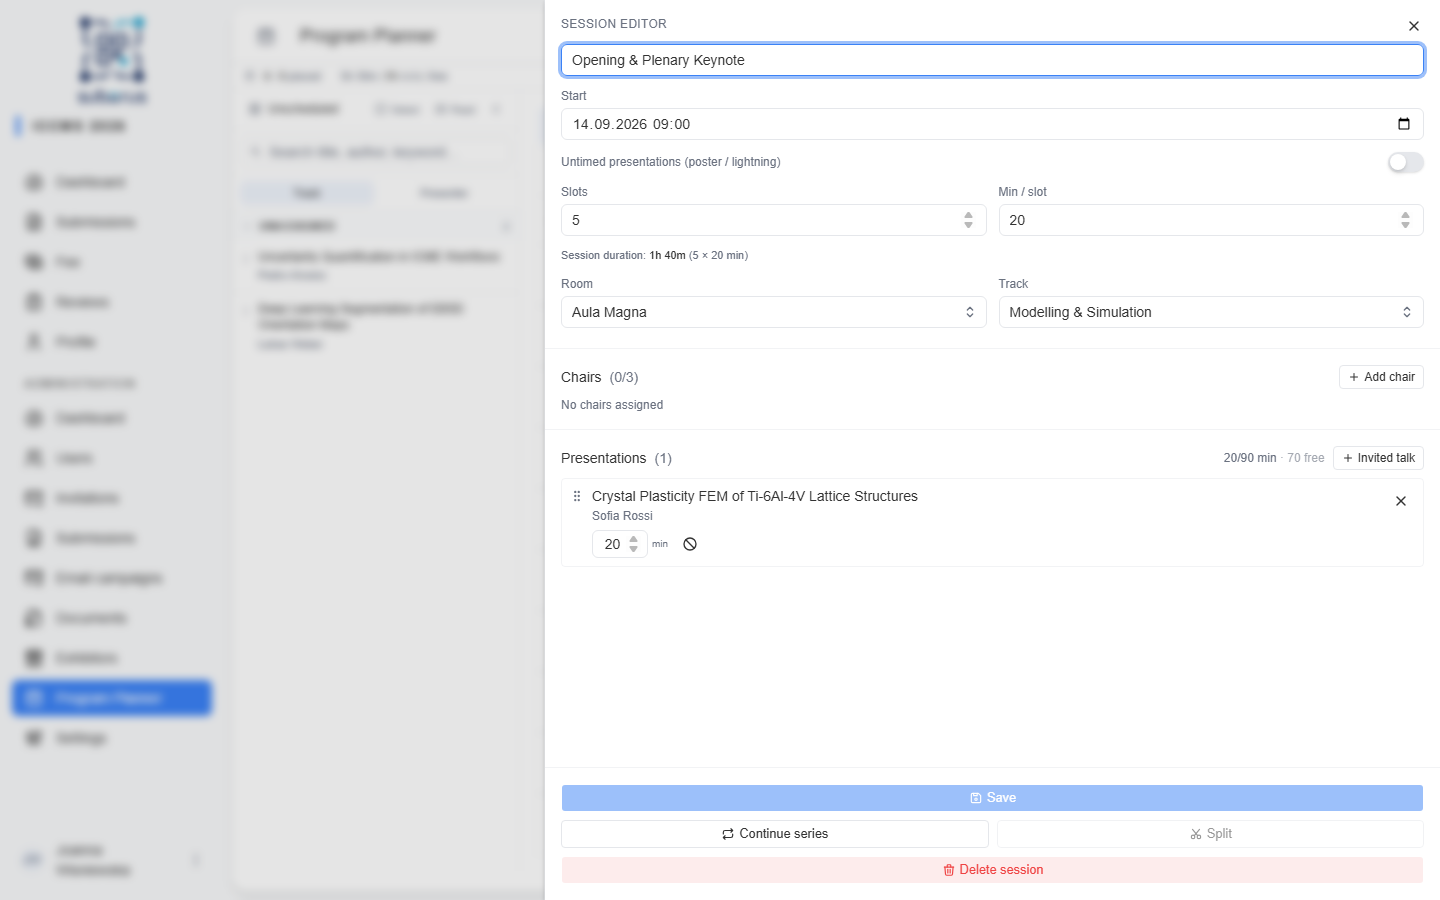
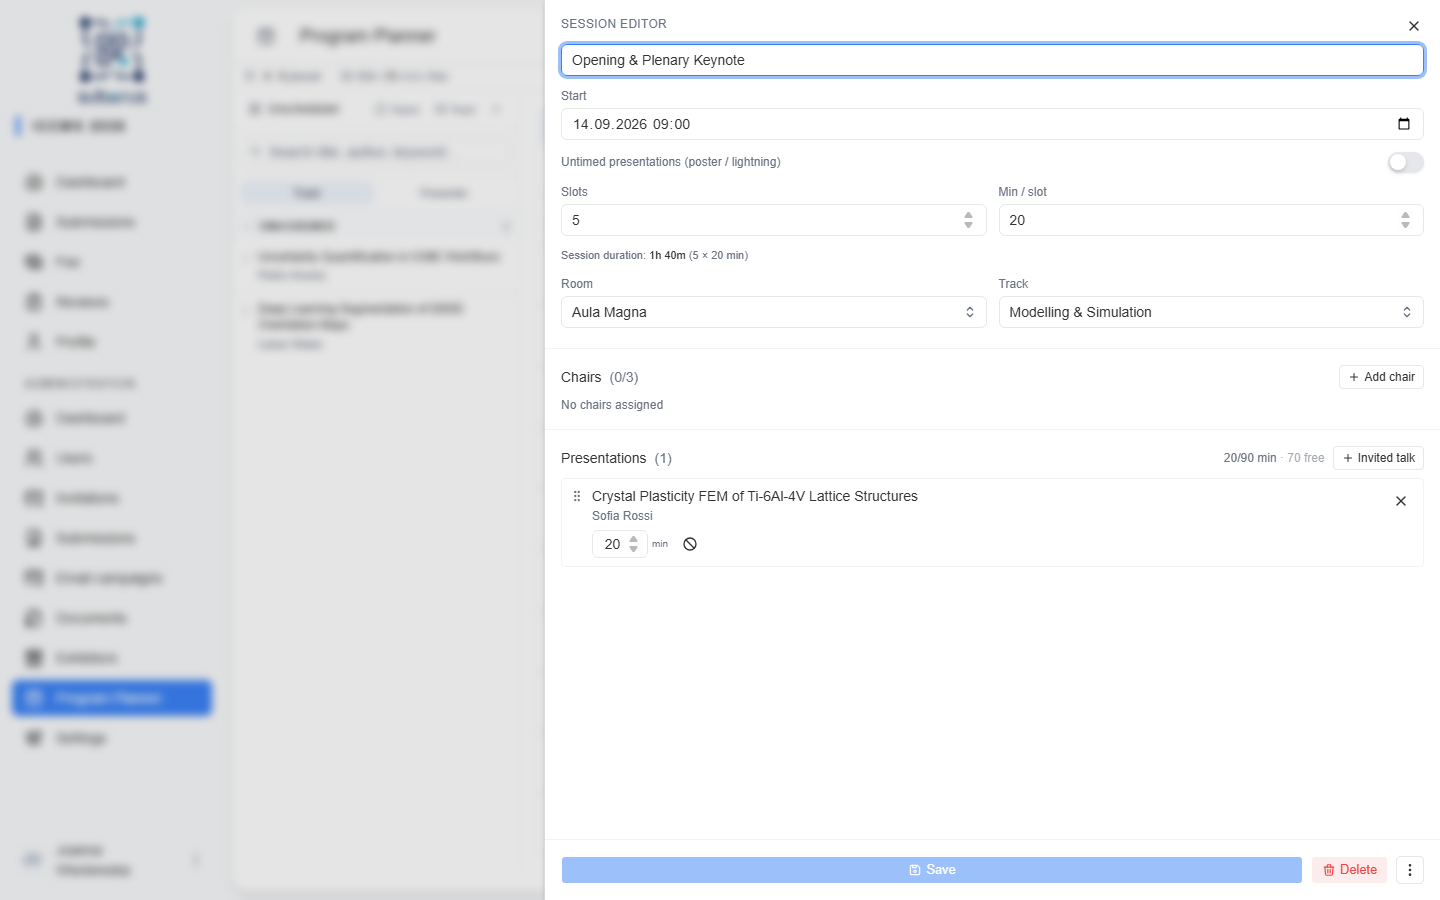
refactor(planner): one footer row in the session editor
Three stacked rows of buttons was too much weight for two primary
actions and two rare ones. Save and Delete now share a single row with
a compact overflow menu holding Continue series and Split; Split moves
from a Popover into a submenu, which drops the local open state.

Regenerated the docs screenshot that showed the old three-row footer.

Claude-Session: https://claude.ai/code/session_01EhppvcvdnKA6NdzRLh6SLB

Changed region(s): [[0.375, 0.8711, 1.0, 0.9956]]

diff --git a/src/features/planner/components/session-editor/session-editor-footer.tsx b/src/features/planner/components/session-editor/session-editor-footer.tsx
@@ -1,13 +1,21 @@
 import {
 	IconCut,
 	IconDeviceFloppy,
+	IconDotsVertical,
 	IconRepeat,
 	IconTrash,
 } from "@tabler/icons-react";
 import { useStore } from "@tanstack/react-store";
-import { useState } from "react";
 import { Button } from "@/shared/ui/button";
-import { Popover, PopoverContent, PopoverTrigger } from "@/shared/ui/popover";
+import {
+	DropdownMenu,
+	DropdownMenuContent,
+	DropdownMenuItem,
+	DropdownMenuSub,
+	DropdownMenuSubContent,
+	DropdownMenuSubTrigger,
+	DropdownMenuTrigger,
+} from "@/shared/ui/dropdown-menu";
 import { SheetFooter } from "@/shared/ui/sheet";
 import { useSessionEditor } from "./session-editor-context";
 
@@ -20,19 +28,14 @@ export function SessionEditorFooter() {
 		mutations,
 		onDelete,
 	} = useSessionEditor();
-	const [splitOpen, setSplitOpen] = useState(false);
 	const isDirty = useStore(form.store, (s) => s.isDirty);
 	const isSubmitting = useStore(form.store, (s) => s.isSubmitting);
-
-	const handleSplit = (order: number) => {
-		mutations.split(order);
-		setSplitOpen(false);
-	};
+	const canSplit = presentations.length >= 2 && !session.untimedSlots;
 
 	return (
-		<SheetFooter className="flex flex-col gap-2 border-t p-4">
+		<SheetFooter className="flex flex-row items-center gap-2 border-t p-4">
 			<Button
-				className="w-full"
+				className="flex-1"
 				data-testid="session-editor-save"
 				disabled={!isDirty || isSubmitting}
 				onClick={() => form.handleSubmit()}
@@ -42,63 +45,62 @@ export function SessionEditorFooter() {
 				<IconDeviceFloppy size={14} />
 				{isSubmitting ? "Saving…" : "Save"}
 			</Button>
-			<div className="flex gap-2">
-				<Button
-					className="flex-1"
-					data-testid="session-editor-continue-series"
-					onClick={mutations.continueSeries}
-					size="sm"
-					variant="outline"
-				>
-					<IconRepeat size={13} />
-					Continue series
-				</Button>
-				<Popover onOpenChange={setSplitOpen} open={splitOpen}>
-					<PopoverTrigger asChild>
-						<Button
-							className="flex-1"
-							data-testid="session-editor-split"
-							disabled={presentations.length < 2 || session.untimedSlots}
-							size="sm"
-							variant="outline"
-						>
-							<IconCut size={13} />
-							Split
-						</Button>
-					</PopoverTrigger>
-					<PopoverContent align="end" className="w-72 p-0">
-						<div className="border-b p-2 text-xs font-medium">
-							Split after presentation:
-						</div>
-						<div className="max-h-64 overflow-y-auto p-1">
-							{presentations.slice(0, -1).map((p) => (
-								<button
-									className="hover:bg-muted block w-full rounded px-2 py-1.5 text-left text-xs"
-									key={p.id}
-									onClick={() => handleSplit(p.order)}
-									type="button"
-								>
-									<span className="text-muted-foreground mr-2 font-mono">
-										{p.order + 1}.
-									</span>
-									<span className="line-clamp-1">{p.submissionTitle}</span>
-								</button>
-							))}
-						</div>
-					</PopoverContent>
-				</Popover>
-			</div>
 			<Button
-				className="w-full"
 				data-testid="session-editor-delete"
 				disabled={deleting}
 				onClick={onDelete}
 				size="sm"
+				type="button"
 				variant="destructive"
 			>
 				<IconTrash size={14} />
-				Delete session
+				Delete
 			</Button>
+			<DropdownMenu>
+				<DropdownMenuTrigger asChild>
+					<Button
+						aria-label="More session actions"
+						data-testid="session-editor-more"
+						size="icon-sm"
+						type="button"
+						variant="outline"
+					>
+						<IconDotsVertical size={14} />
+					</Button>
+				</DropdownMenuTrigger>
+				<DropdownMenuContent align="end" className="w-56">
+					<DropdownMenuItem
+						data-testid="session-editor-continue-series"
+						onClick={mutations.continueSeries}
+					>
+						<IconRepeat size={13} />
+						Continue series
+					</DropdownMenuItem>
+					<DropdownMenuSub>
+						<DropdownMenuSubTrigger
+							data-testid="session-editor-split"
+							disabled={!canSplit}
+						>
+							<IconCut size={13} />
+							Split after presentation
+						</DropdownMenuSubTrigger>
+						<DropdownMenuSubContent className="max-h-64 w-72 overflow-y-auto">
+							{presentations.slice(0, -1).map((p) => (
+								<DropdownMenuItem
+									className="text-xs"
+									key={p.id}
+									onClick={() => mutations.split(p.order)}
+								>
+									<span className="text-muted-foreground mr-1 font-mono">
+										{p.order + 1}.
+									</span>
+									<span className="line-clamp-1">{p.submissionTitle}</span>
+								</DropdownMenuItem>
+							))}
+						</DropdownMenuSubContent>
+					</DropdownMenuSub>
+				</DropdownMenuContent>
+			</DropdownMenu>
 		</SheetFooter>
 	);
 }
